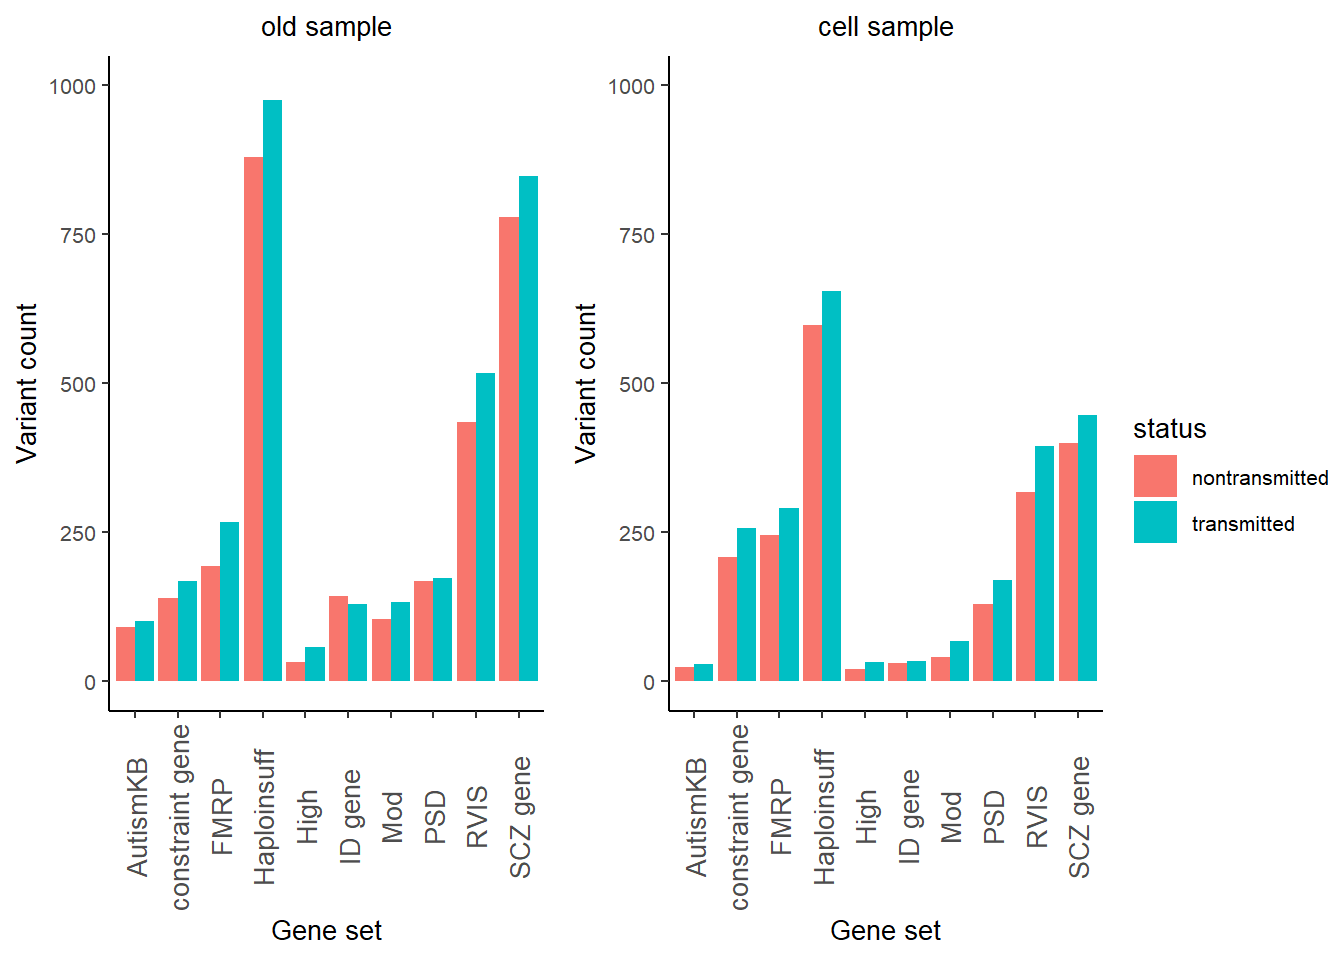
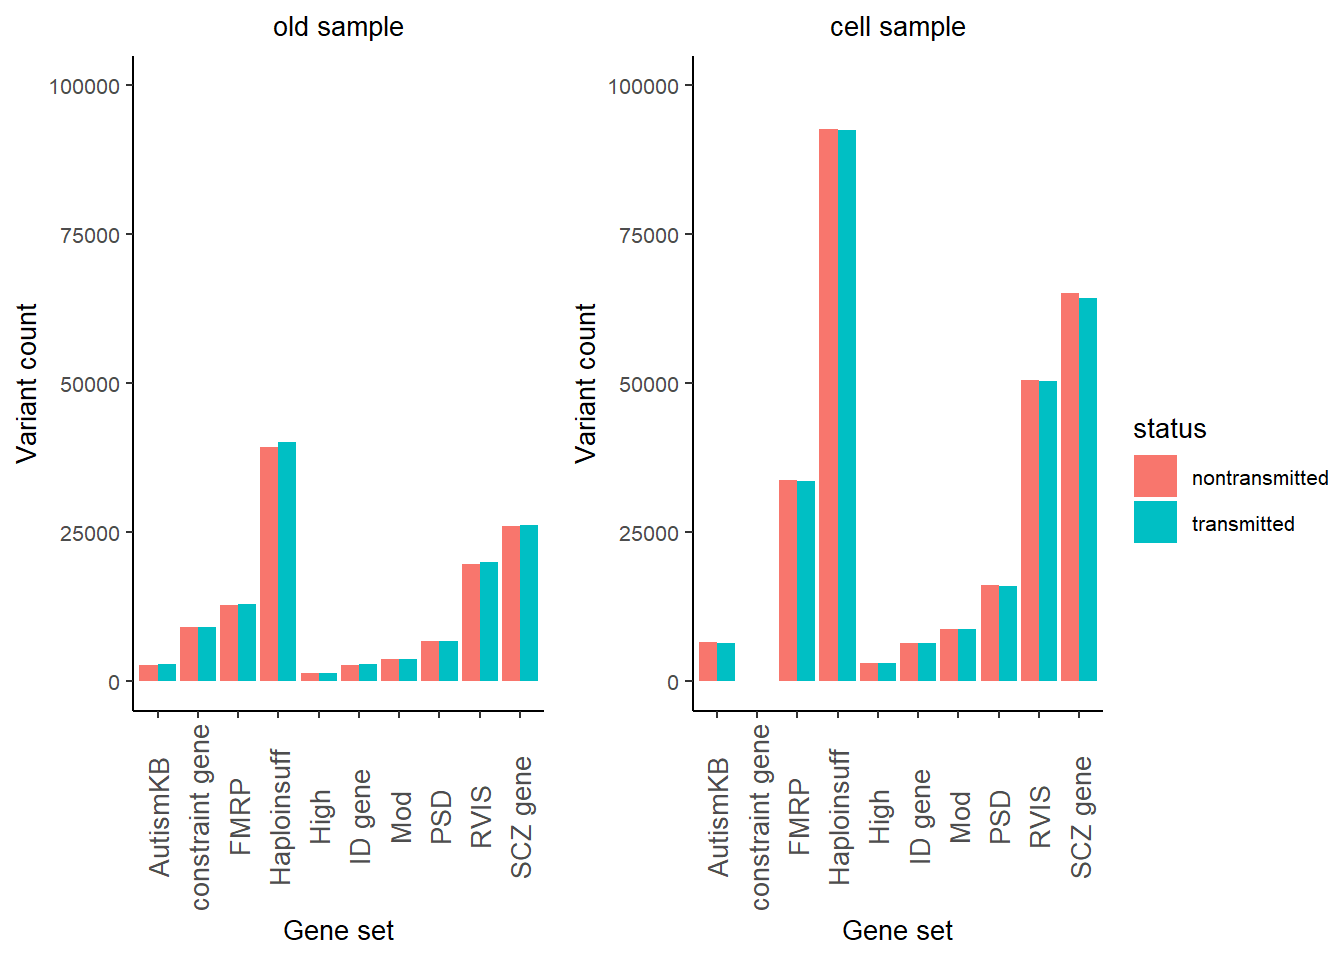
12/22/2020

diff --git a/docs/VS-ASC.html b/docs/VS-ASC.html
@@ -415,7 +415,7 @@ div.tocify {
 
 <div id="allele-frequency-distribution" class="section level2">
 <h2>Allele frequency distribution</h2>
-<p>it seems the data is already filtered with <span class="math inline">\(AF&gt;10^{-3}\)</span>.</p>
+<p>It seems the data is already filtered with <span class="math inline">\(AF&gt;10^{-3}\)</span>.</p>
 <p><img src="VS-ASC_files/figure-html/unnamed-chunk-3-1.png" width="672" /></p>
 <pre><code>##      Min.   1st Qu.    Median      Mean   3rd Qu.      Max. 
 ## 0.000e+00 0.000e+00 8.245e-06 1.294e-05 1.696e-05 1.200e-03</code></pre>
@@ -478,17 +478,28 @@ div.tocify {
 </div>
 <div id="old-sample-vs-cell-data" class="section level2">
 <h2>Old sample vs Cell data</h2>
-<p>To compare old sample and cell data, look at LoF +AF&lt;1E-4+10 gene set and how they compare with each other.</p>
-<p>Old sample: LoF: the union of “stopgain”, “frameshift substitution”, “splicing”, “stoploss”</p>
-<p>cell sample: LoF: protein truncating variants (PTV) with pLI&gt;=0.5</p>
+<div id="missense-variants-in-different-gene-set" class="section level3">
+<h3>Missense variants in different gene set</h3>
+<p>To compare old sample and cell data, look at missense variant (regardless of categories) +AF&lt;1E-4+10 gene set and how they compare with each other.</p>
+<p>Old sample: missense: Non-LoF variants</p>
+<p>cell sample: : [missense_variant]</p>
+<p><img src="VS-ASC_files/figure-html/unnamed-chunk-12-1.png" width="672" /></p>
+</div>
 <div id="lof-variants-in-different-gene-set" class="section level3">
 <h3>LoF variants in different gene set</h3>
-<p><img src="VS-ASC_files/figure-html/unnamed-chunk-12-1.png" width="672" /></p>
+<p>To compare old sample and cell data, look at LoF +AF&lt;1E-4+10 gene set and how they compare with each other.</p>
+<p>Old sample: LoF: the union of “stopgain”, “frameshift substitution”, “splicing”, “stoploss”</p>
+<p>cell sample: LoF: protein truncating variants (PTV) (nonsense, frame-shift, and essential splice site variants) with pLI&gt;=0.5</p>
+<p><img src="VS-ASC_files/figure-html/unnamed-chunk-14-1.png" width="672" /></p>
+</div>
+<div id="run-mirage-vs-on-lof-variants-of-gene-set" class="section level3">
+<h3>Run MIRAGE-VS on LoF variants of gene set</h3>
+<p>Apply mirage on LoF variants in different gene set from old sample and cell data and see how they differ.</p>
 </div>
 <div id="lof-variants-in-different-fmrp-genes" class="section level3">
 <h3>LoF variants in different FMRP genes</h3>
 <p>LoF variants in 50 FMRP genes.</p>
-<p><img src="VS-ASC_files/figure-html/unnamed-chunk-13-1.png" width="672" /><img src="VS-ASC_files/figure-html/unnamed-chunk-13-2.png" width="672" /></p>
+<p><img src="VS-ASC_files/figure-html/unnamed-chunk-15-1.png" width="672" /><img src="VS-ASC_files/figure-html/unnamed-chunk-15-2.png" width="672" /></p>
 </div>
 </div>
 
